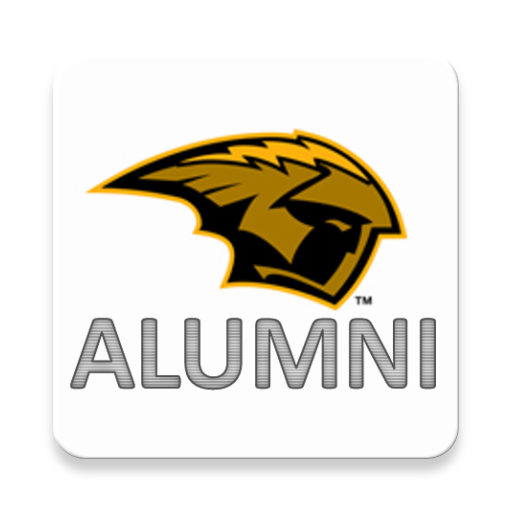
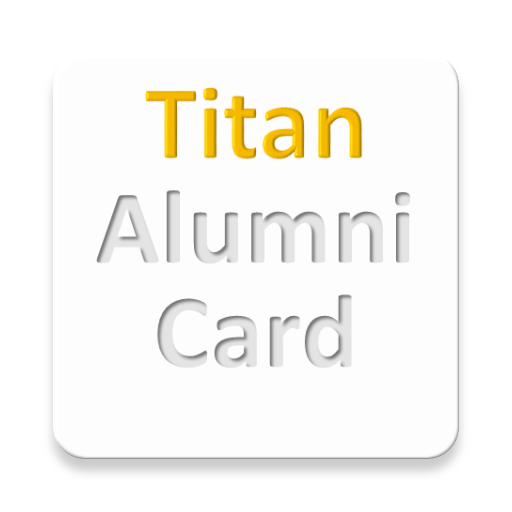
Last version was reject from the Google Play store due to using images copyrighted to UW Oshkosh. Those images have been removed.

Changed region(s): [[0.125, 0.1562, 0.875, 0.7812]]

diff --git a/app/src/main/java/uwosh/titan_alumni_card_app/MainActivity.java b/app/src/main/java/uwosh/titan_alumni_card_app/MainActivity.java
@@ -416,6 +416,7 @@ public class MainActivity extends AppCompatActivity implements View.OnClickListe
         boolean longName = false;
         boolean longCollege = false;
         TextView[] alumniCardTextFields = getTextViews();
+        alumniCardTextFields[4].setText(graduationYear);
         alumniCardTextFields[5].setText(id);
 
         int nameLength = firstName.length() + lastName.length();
